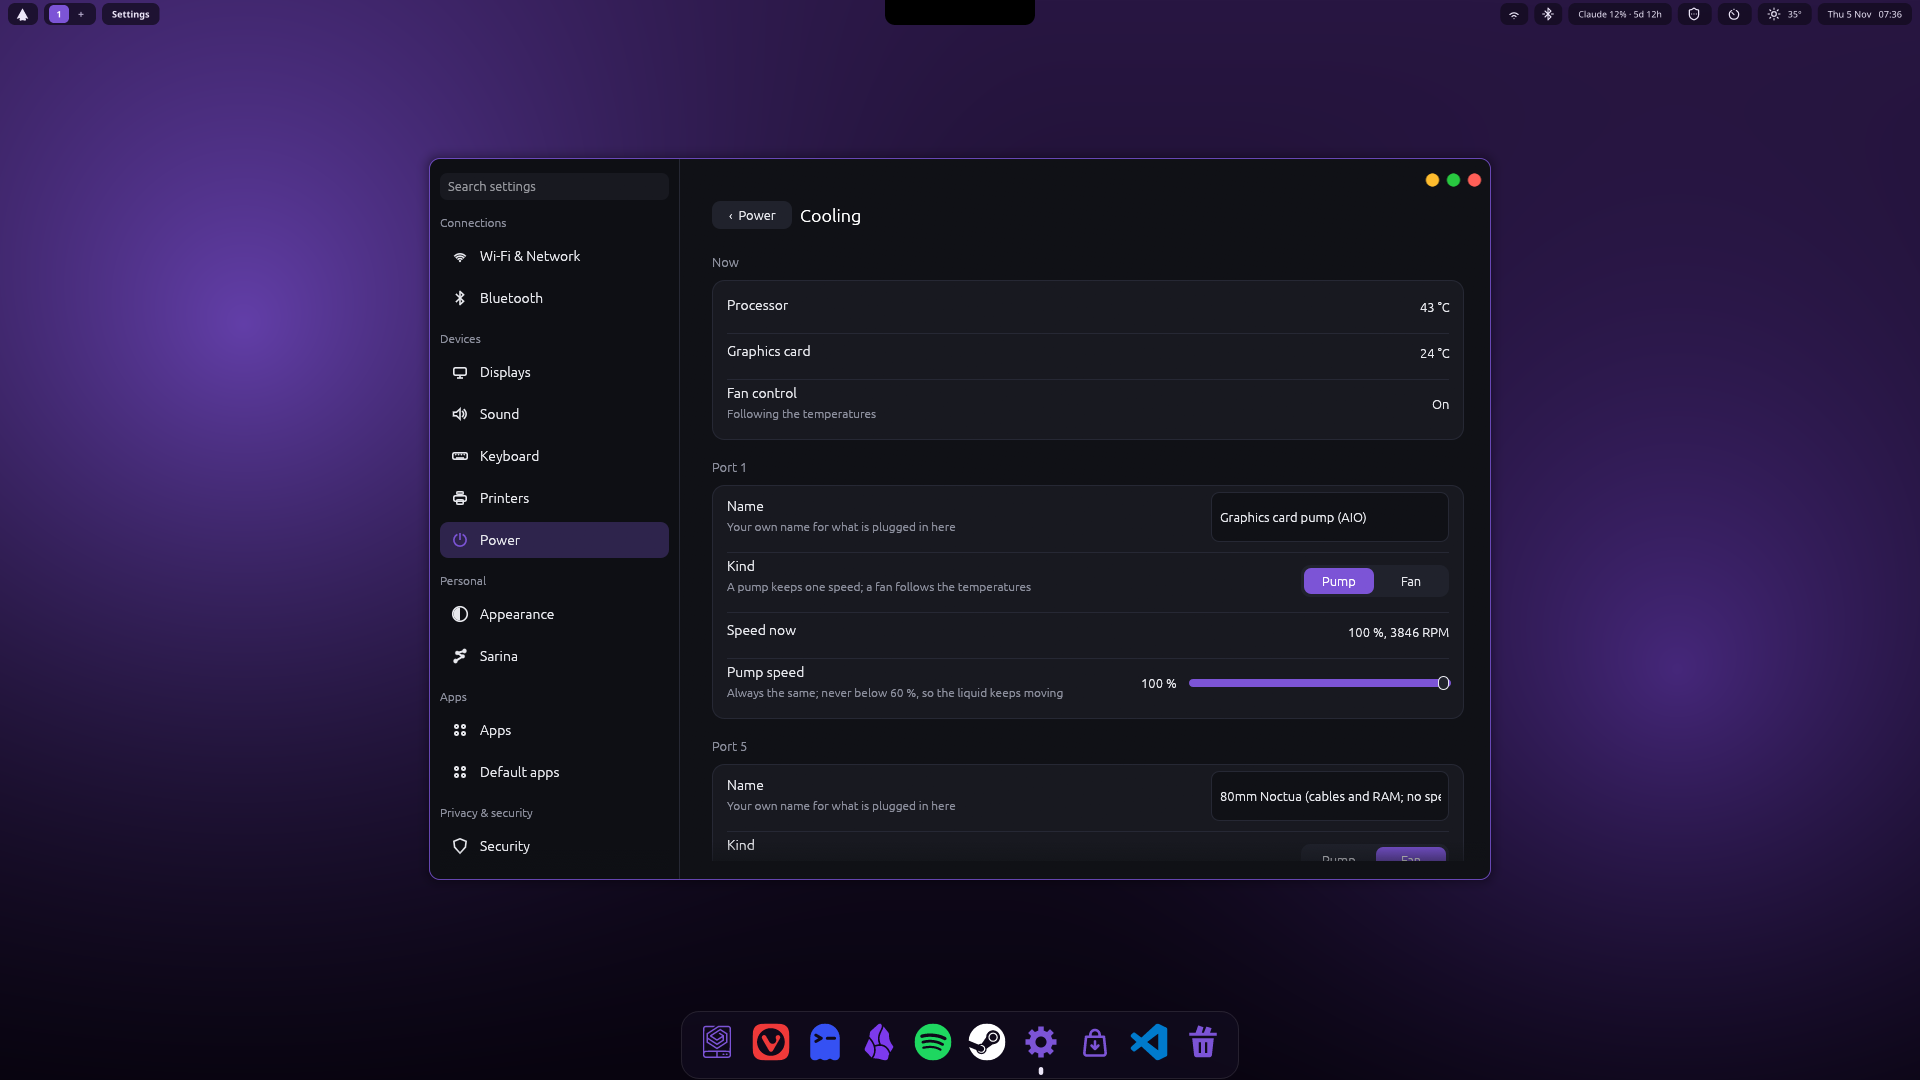
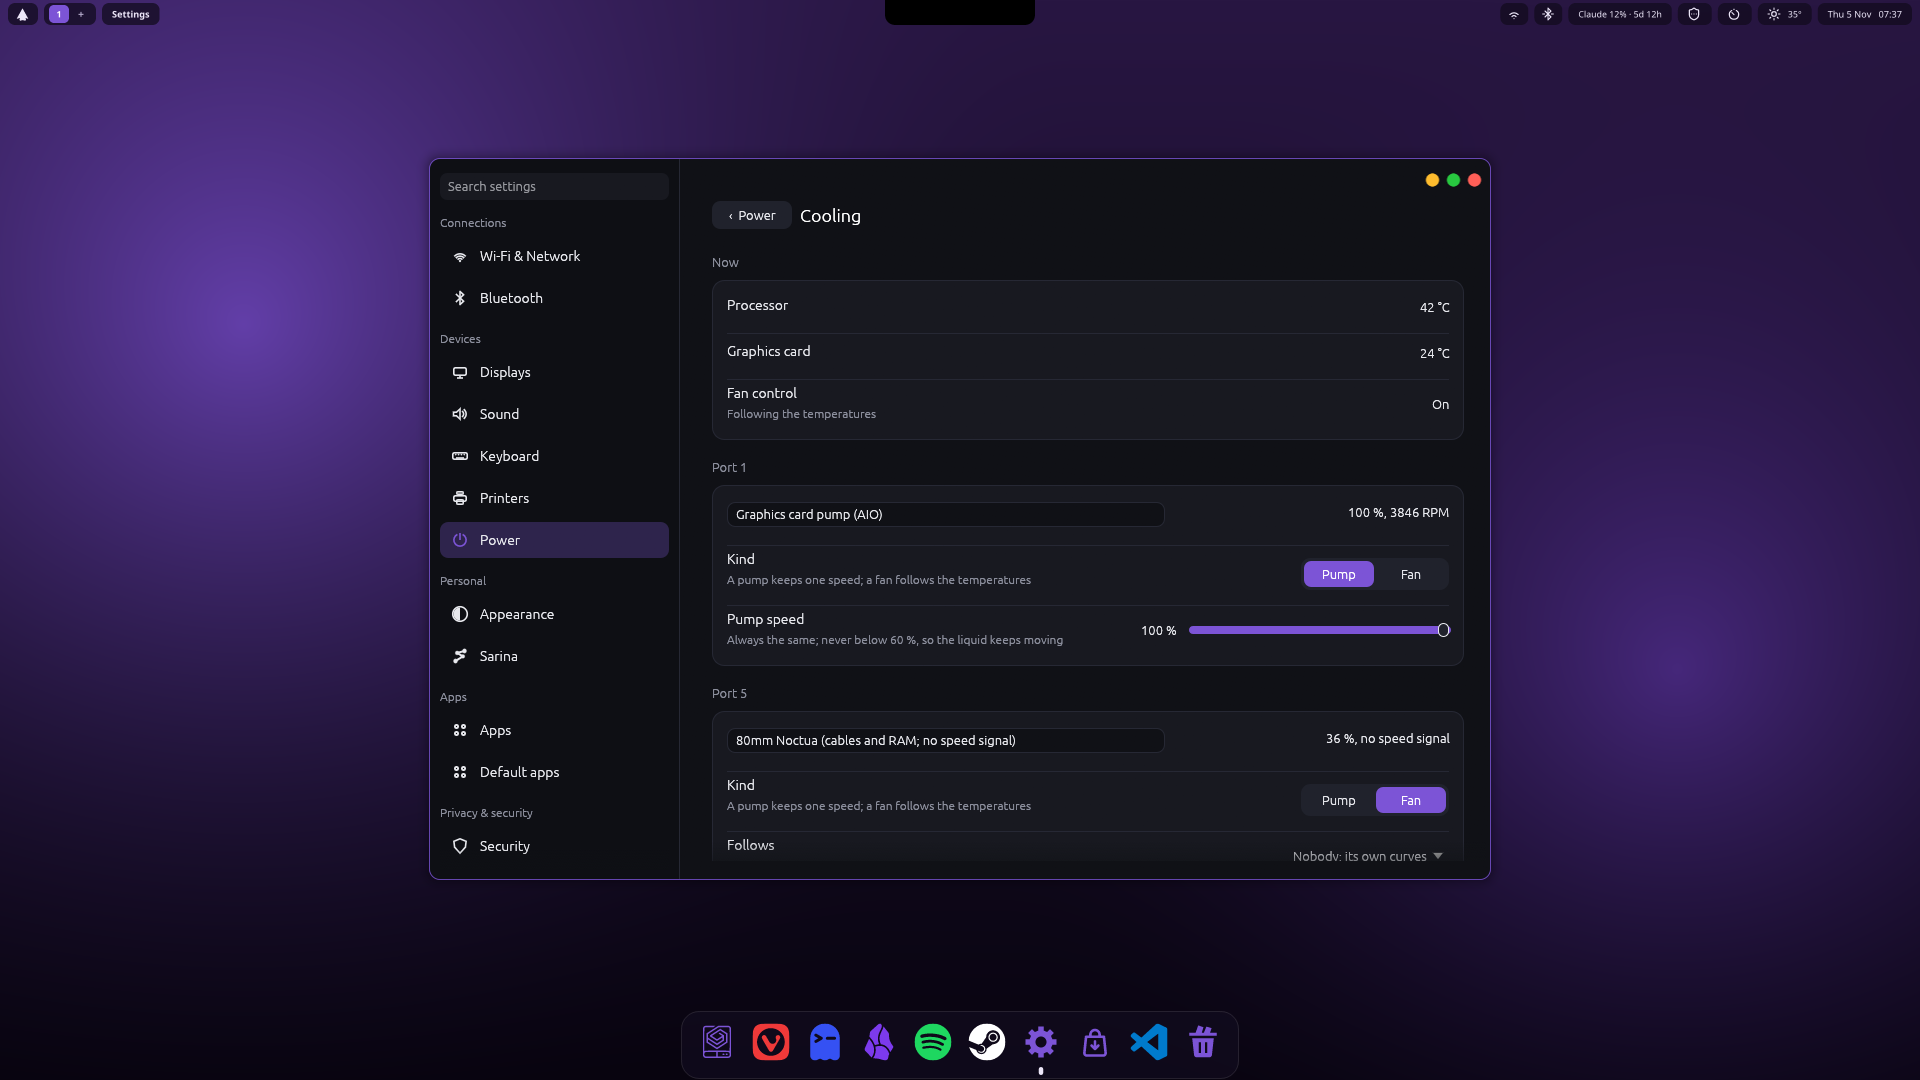
Cooling: each card starts with the name box and the speed now on one line
The Name row (title and help text) and the Speed now row become one line: a text box with the
person's own name for the port, widening with the window, and the speed on the right.
Pictures retaken. yggdrasil-settings 0.1.0-24.

diff --git a/packages/settings/src/fans.rs b/packages/settings/src/fans.rs
@@ -319,13 +319,25 @@ impl Panel {
             let title = format!("Port {n}");
             let mut changed = false;
             ui::group(ui, pal, Some(&title), |ui| {
-                ui::row(ui, pal, true, "Name", Some("Your own name for what is plugged in here"), |ui| {
-                    let hint = if p.role == "pump" { "e.g. Graphics card pump" } else { "e.g. Top exhaust" };
+                let speed = match (c.pct, connected.contains_key(&n)) {
+                    (_, false) => "not connected".to_string(),
+                    (Some(pct), _) if blind => format!("{pct} %, no speed signal"),
+                    (Some(pct), _) => format!("{pct} %, {} RPM", c.rpm),
+                    (None, _) if blind => "no speed signal".to_string(),
+                    (None, _) => format!("{} RPM", c.rpm),
+                };
+                // the first line: the person's own name for what is plugged in (typed right there), and its speed now
+                ui::row_with(ui, pal, true, |ui| {
+                    let hint = if p.role == "pump" { "Name it, e.g. Graphics card pump" } else { "Name it, e.g. Top exhaust" };
                     let mut name = p.name.clone();
-                    if ui::field(ui, pal, &mut name, hint, 220.0, false).changed() {
+                    // wide enough for a long name, leaving the speed its room
+                    let width = (ui.available_width() - 40.0).clamp(180.0, 420.0);
+                    if ui::field(ui, pal, &mut name, hint, width, false).changed() {
                         p.name = name.chars().filter(|c| !c.is_control()).take(NAME_MAX).collect();
                         changed = true;
                     }
+                }, None, |ui| {
+                    ui.label(speed);
                 });
                 ui::row(ui, pal, false, "Kind", Some("A pump keeps one speed; a fan follows the temperatures"), |ui| {
                     let sel = (p.role != "pump") as usize;
@@ -335,16 +347,6 @@ impl Panel {
                             changed = true;
                         }
                     }
-                });
-                let speed = match (c.pct, connected.contains_key(&n)) {
-                    (_, false) => "not connected".to_string(),
-                    (Some(pct), _) if blind => format!("{pct} %, no speed signal"),
-                    (Some(pct), _) => format!("{pct} %, {} RPM", c.rpm),
-                    (None, _) if blind => "no speed signal".to_string(),
-                    (None, _) => format!("{} RPM", c.rpm),
-                };
-                ui::row(ui, pal, false, "Speed now", None, |ui| {
-                    ui.label(speed);
                 });
                 if p.role == "pump" {
                     let mut v = p.fixed.max(PUMP_MIN) as f32;

diff --git a/packages/settings/src/ui.rs b/packages/settings/src/ui.rs
@@ -49,7 +49,8 @@ pub fn link_row(ui: &mut egui::Ui, pal: &Palette, first: bool, title: &str, subt
     clicked
 }
 
-fn row_with(ui: &mut egui::Ui, pal: &Palette, first: bool, title: impl FnOnce(&mut egui::Ui), subtitle: Option<&str>, control: impl FnOnce(&mut egui::Ui)) {
+/// A row with anything as its title (a text box, for a name the person types), laid out as `row`.
+pub fn row_with(ui: &mut egui::Ui, pal: &Palette, first: bool, title: impl FnOnce(&mut egui::Ui), subtitle: Option<&str>, control: impl FnOnce(&mut egui::Ui)) {
     if !first {
         let r = ui.available_rect_before_wrap();
         ui.painter().hline(r.left()..=r.right(), r.top(), Stroke::new(1.0, pal.border));

diff --git a/docs/APPS_SETTINGS.md b/docs/APPS_SETTINGS.md
@@ -65,8 +65,9 @@ Built 2026-10-15/16. Code: `packages/settings/src/appmgr.rs` (what is known abou
   Commander Pro (kernel driver `corsair_cpro`) as the root service `yggdrasil-casefan`.
   - **The page** (Power > Cooling, or `yggdrasil-settings power:cooling`; `power:fans` also works): the processor's and the card's temperatures,
     whether fan control is on, and for each port its speed now (percent and RPM, or "no speed signal").
-    - Each card is headed by its port; the name under it is the person's own (typed there, up to 60 characters; "Graphics
-      card pump", "Top exhaust"), and Kind makes the port a pump or a fan, because no two computers are wired alike.
+    - Each card is headed by its port. Its first line is a text box with the person's own name for what is plugged in
+      (up to 60 characters; "Graphics card pump", "Top exhaust"), with the speed now on the right. Kind makes the port a
+      pump or a fan, because no two computers are wired alike.
     - A pump gets one slider, 60-100 %.
     - A fan gets Quiet, Balanced (casefan's default) or Cool, or Custom: its own processor and graphics card curves, dragged
       in the same editor as the graphics card's fan curve (`src/curve.rs`, shared).
